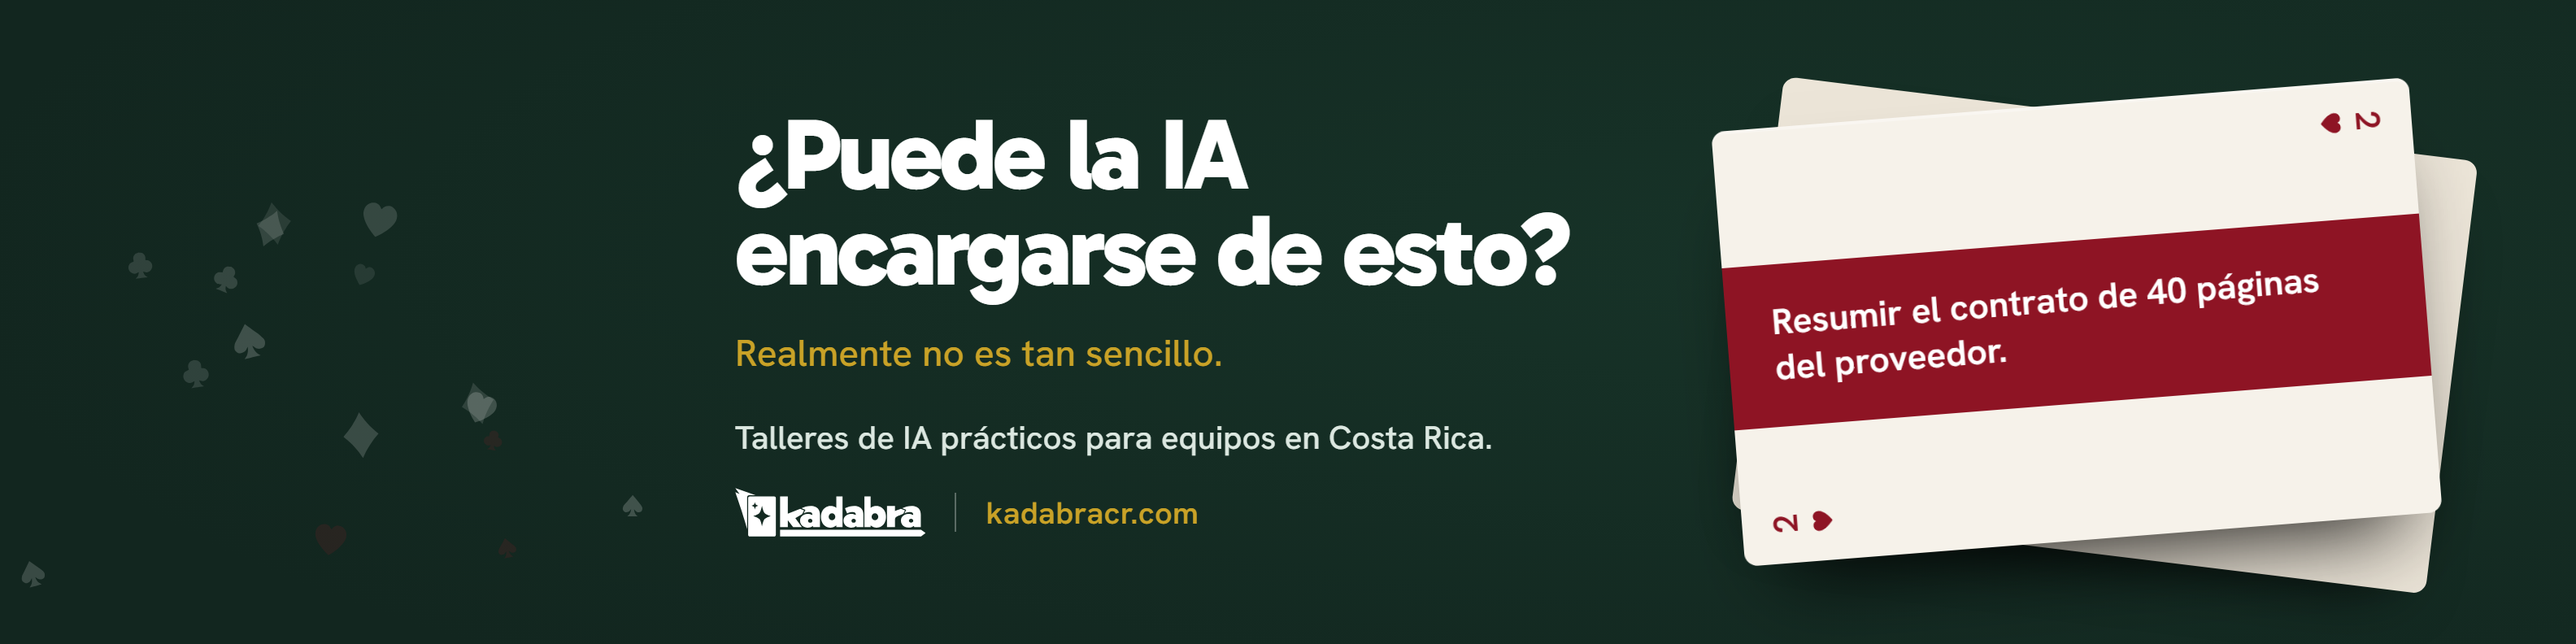
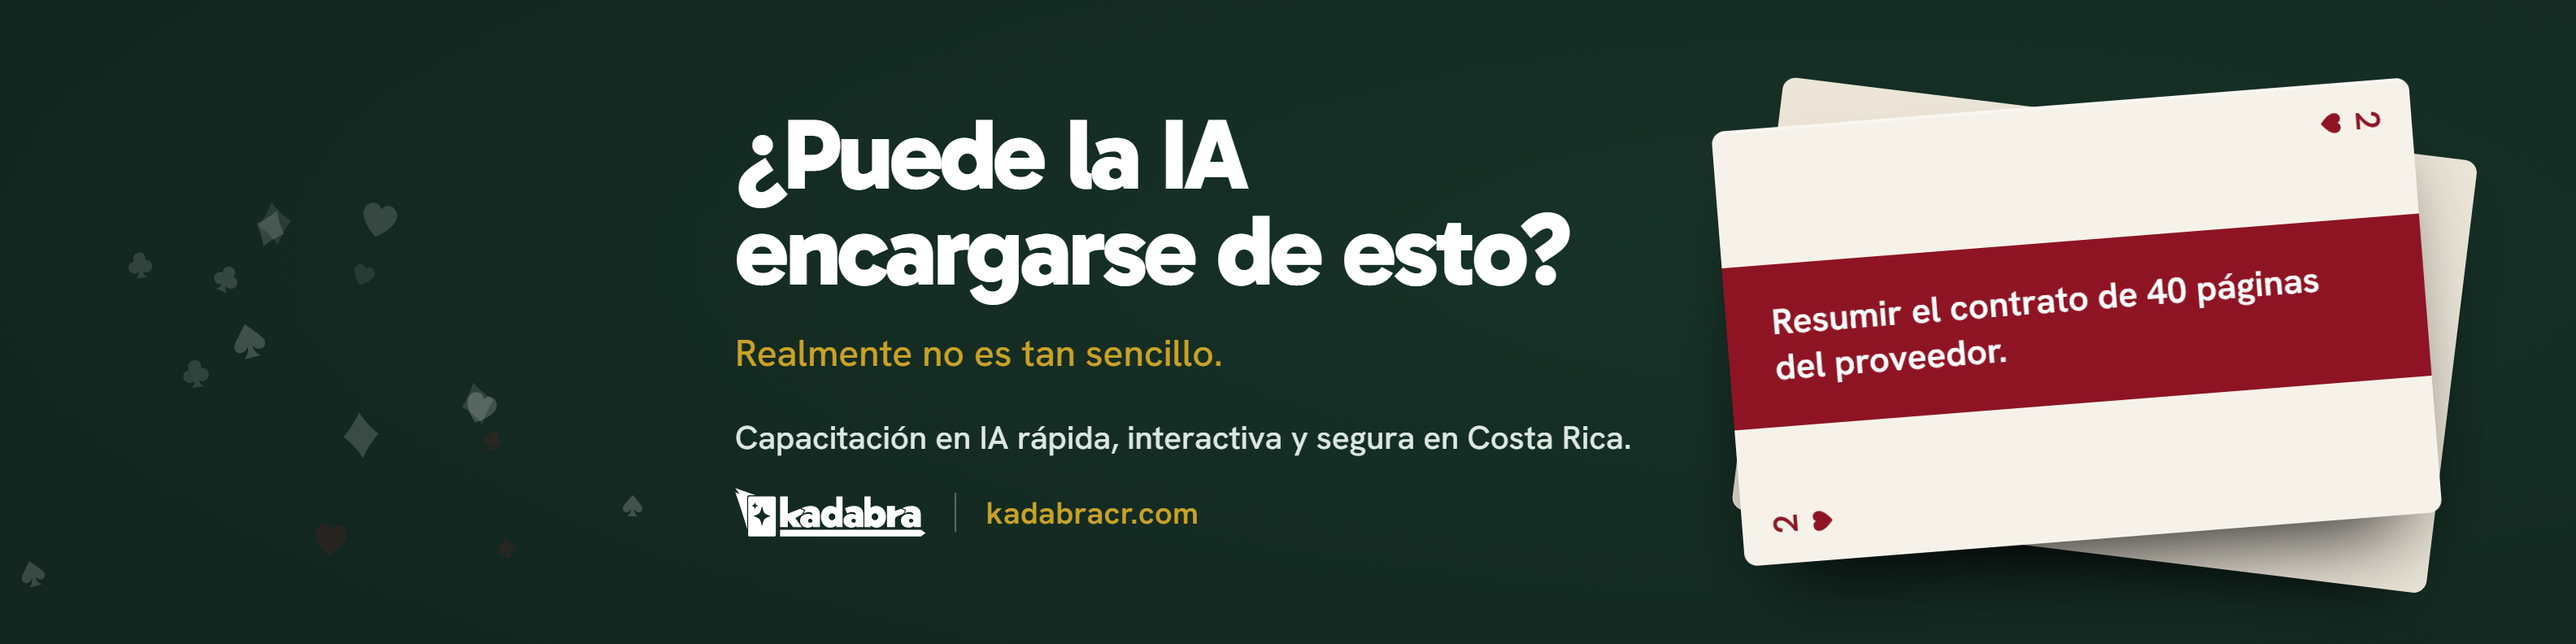
LinkedIn: ícono sobre carbón (carta blanca, destellos dorados), eslogan nuevo en las portadas, descripción y especialidades

Changed region(s): [[0.2812, 0.6667, 0.6562, 0.697]]

diff --git a/brand/linkedin/banners.html b/brand/linkedin/banners.html
@@ -113,9 +113,10 @@ svg{display:block}
 .empresa .gcap span{font-size:11.5px;max-width:13ch}
 .empresa.datos .remate{display:block;font-size:11.5px!important}
 
-/* ============ the profile picture: the icon, alone, clear ============ */
-.avatar{background:radial-gradient(70% 70% at 50% 42%,#1D3E32 0%,var(--felt-deep) 72%);display:grid;place-items:center}
-.avatar .mark{width:46%;height:auto;color:var(--white);transform:translate(-2%,-1%)}
+/* ============ the profile picture: the icon alone, on the carbon of 'Sin humo' ============ */
+.avatar{background:radial-gradient(62% 62% at 50% 46%,#2B2721 0%,var(--carbon) 70%);display:grid;place-items:center}
+.avatar .mark{width:44%;height:auto;color:var(--white);transform:translate(-4%,-1%);
+  filter:drop-shadow(0 26px 36px rgba(0,0,0,.55))}
 </style>
 </head>
 <body>
@@ -157,7 +158,7 @@ function copyCol(k) {
 }
 
 if (S === 'avatar') {
-  root.innerHTML = '<div class="art avatar"><svg class="mark" viewBox="94.06 284.20 366.28 435.60" role="img" aria-label="kadabra"><use href="#logo-mark" x="94.06" y="284.20" width="366.28" height="435.60"/></svg></div>';
+  root.innerHTML = '<div class="art avatar"><svg class="mark" viewBox="94.06 284.20 366.28 435.60" role="img" aria-label="kadabra"><rect x="228" y="377" width="213" height="324" fill="#C9A227"/><use href="#logo-mark" x="94.06" y="284.20" width="366.28" height="435.60"/></svg></div>';
 } else if (D === 'carta') {
   /* a few suits lie on the felt, dim, mostly where the photo will sit */
   var tb = '';

diff --git a/brand/linkedin/descripcion.md b/brand/linkedin/descripcion.md
@@ -1,0 +1,26 @@
+# Página de empresa en LinkedIn
+
+## Eslogan
+
+Capacitación en IA rápida, interactiva y segura en Costa Rica.
+
+## Descripción
+
+kadabra da capacitación en IA rápida, interactiva y segura para equipos en Costa Rica.
+
+El truco no es la herramienta, es saber usarla. La IA ya funciona: el 93% de las empresas tecnológicas costarricenses ahorra tiempo con ella. Pero solo el 9% tiene una política formal de IA (PROCOMER, 2025). En esa distancia aparecen las cifras inventadas, las facturas mal hechas y los datos que nunca debieron salir de la empresa.
+
+Nuestro taller, «Inteligencia Artificial sin humo», se hace con el trabajo real de su equipo:
+
+• Aclaramos qué hace y qué no hace la IA, con ejemplos de su área.
+• Trabajamos tareas reales de la semana de ustedes, con las herramientas que ya usan.
+• Hacemos fallar la IA a propósito, para que lo vean ustedes antes que un cliente.
+• Escribimos juntos las reglas de la casa para que la IA se use bien en su negocio.
+
+Sin diapositivas aburridas, sin plantillas y sin nada que comprar después. Los equipos a los que se les enseña primero logran hasta un tercio más de trabajo (NBER, 2023).
+
+Conozca el taller en kadabracr.com
+
+## Especialidades
+
+Capacitación en IA, Inteligencia artificial generativa, Talleres para equipos, Uso seguro de IA, Políticas de uso de IA, Productividad con IA, IA para empresas

diff --git a/brand/linkedin/README.md b/brand/linkedin/README.md
@@ -6,7 +6,8 @@ Three cover designs plus the profile picture. Each cover comes in two sizes.
 |---|---|
 | `export/*_perfil_1584x396@2x.png` | Cover of a personal profile |
 | `export/*_empresa_1128x191@2x.png` | Cover of the kadabra company page |
-| `export/perfil-icono_1080.png` (or `_400`) | Profile picture: the icon alone |
+| `export/perfil-icono-carbon_1080.png` (or `_400`) | Profile picture: the white card with gold sparkles on carbon; pairs with the carbon cover |
+| `descripcion.md` | Company page tagline, description and specialties |
 
 Covers are exported at twice the size LinkedIn asks for, so they stay sharp on high-density screens. LinkedIn scales them down on upload.
 

diff --git a/brand/linkedin/copy.md b/brand/linkedin/copy.md
@@ -9,7 +9,7 @@ Tratamiento: ustedeo. Nunca voseo ni tuteo.
 ## Común a los tres
 
 web: kadabracr.com
-oferta: Talleres de IA prácticos para equipos en Costa Rica.
+oferta: Capacitación en IA rápida, interactiva y segura en Costa Rica.
 
 ## Diseño 1 · La carta
 
